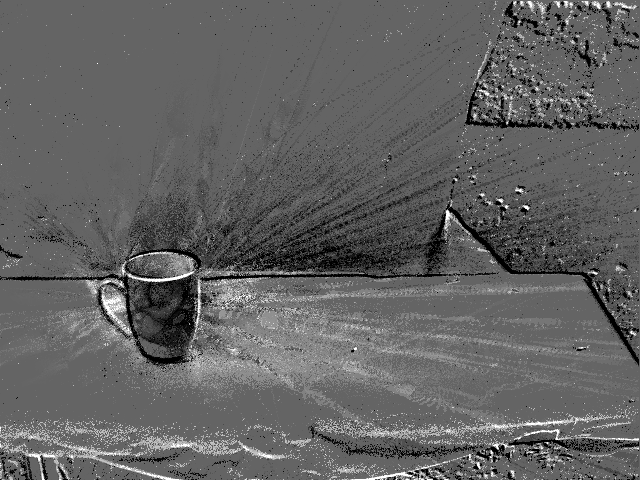
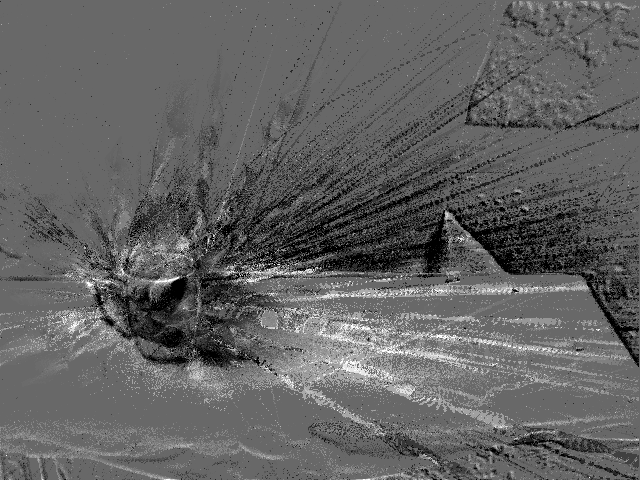
Slides 2-3: cup panels both from frame 134

Changed region(s): [[0.0, 0.0, 1.0, 1.0], [0.8438, 0.3125, 0.875, 0.3438], [0.0, 0.6562, 0.0312, 0.6875]]

diff --git a/core.tex b/core.tex
@@ -27,7 +27,7 @@
 \textbf{What can brightness changes reveal about images, motion, and depth---and at what computational cost?}\par\vspace{2mm}}
 
 \begin{frame}{Events alone recover a handheld office, a bullet hitting a cup, and Earth from orbit}
-% source: Ch. 2 subsubsec:datasets; office approx. 2.5M events (subsec:validation_office), cup approx. 750,000 events (f:cup), ISS approx. 2 million events (f:iss). Panels: figures/hook_p1/metadata.json (P1 configuration; office frame 29, cup frame 124, ISS frame 31).
+% source: Ch. 2 subsubsec:datasets; office approx. 2.5M events (subsec:validation_office), cup approx. 750,000 events (f:cup), ISS approx. 2 million events (f:iss). Panels: figures/hook_p1/metadata.json (P1 configuration; office frame 29, cup frame 134, ISS frame 31).
 \hookpanels{figures/hook_p1/office.png}{figures/hook_p1/cup.png}{figures/hook_p1/iss.png}
 % source detail: Ch. 2, subsec:validation, f:office, f:cup, f:iss; datasets in subsubsec:datasets.
 \src{\dref{Figure}{f:office}, \dref{Figure}{f:cup}, and \dref{Figure}{f:iss}; \dref{Section}{subsec:validation}. Data: office~\cite{gallego2017accurate}, cup~\cite{rebecq2021highspeed}, Falcon Neuro~\cite{mcharg2022falcon}.}
@@ -36,10 +36,10 @@
 
 \begin{frame}{Events alone recover a handheld office, a bullet hitting a cup, and Earth from orbit}
 \hookpanels{figures/hook_p1/office_color.png}{figures/hook_p1/cup_color.png}{figures/hook_p1/iss_color.png}
-% source detail: Ch. 2, f:office, f:cup and f:iss (false-color renderings; the cup panel is the next frame in the f:cup sequence, frame 134).
+% source detail: Ch. 2, f:office, f:cup and f:iss (false-color renderings of the same reconstructed frames).
 % source: figures/hook_p1/*_color.png use the palette of the thesis cup false-color figure, indexed by the departure from the background; exporter monocular_reconstruction/artifacts/defense_figures_20261108/export_hook.py.
-\src{\dref{Figure}{f:office}, \dref{Figure}{f:cup}, and \dref{Figure}{f:iss}, false-color renderings.}
-\talknote{Same scenes in false color; about 45 seconds.}{The same scenes in false color, with the cup about 24 ms later as it breaks apart; grayscale and false color are display choices for the reconstructed relative brightness.}{Why it matters: fast scenes, wide brightness ranges, and platforms with tight power budgets such as drones and spacecraft. On those platforms the estimator must also be cheap and predictable, which the reconstruction chapter quantifies. Transition: what the sensor reports, and why that makes these problems mathematically interesting.}
+\src{\dref{Figure}{f:office}, \dref{Figure}{f:cup}, and \dref{Figure}{f:iss}, false-color renderings of the same reconstructed frames.}
+\talknote{Same scenes in false color; about 45 seconds.}{All three panels now show the same reconstructed frames in false color; grayscale and false color are display choices for the reconstructed relative brightness.}{Why it matters: fast scenes, wide brightness ranges, and platforms with tight power budgets such as drones and spacecraft. On those platforms the estimator must also be cheap and predictable, which the reconstruction chapter quantifies. Transition: what the sensor reports, and why that makes these problems mathematically interesting.}
 \end{frame}
 
 \begin{frame}{Why an event camera? Each pixel reports its own changes, with microsecond timing and 140 dB range}
